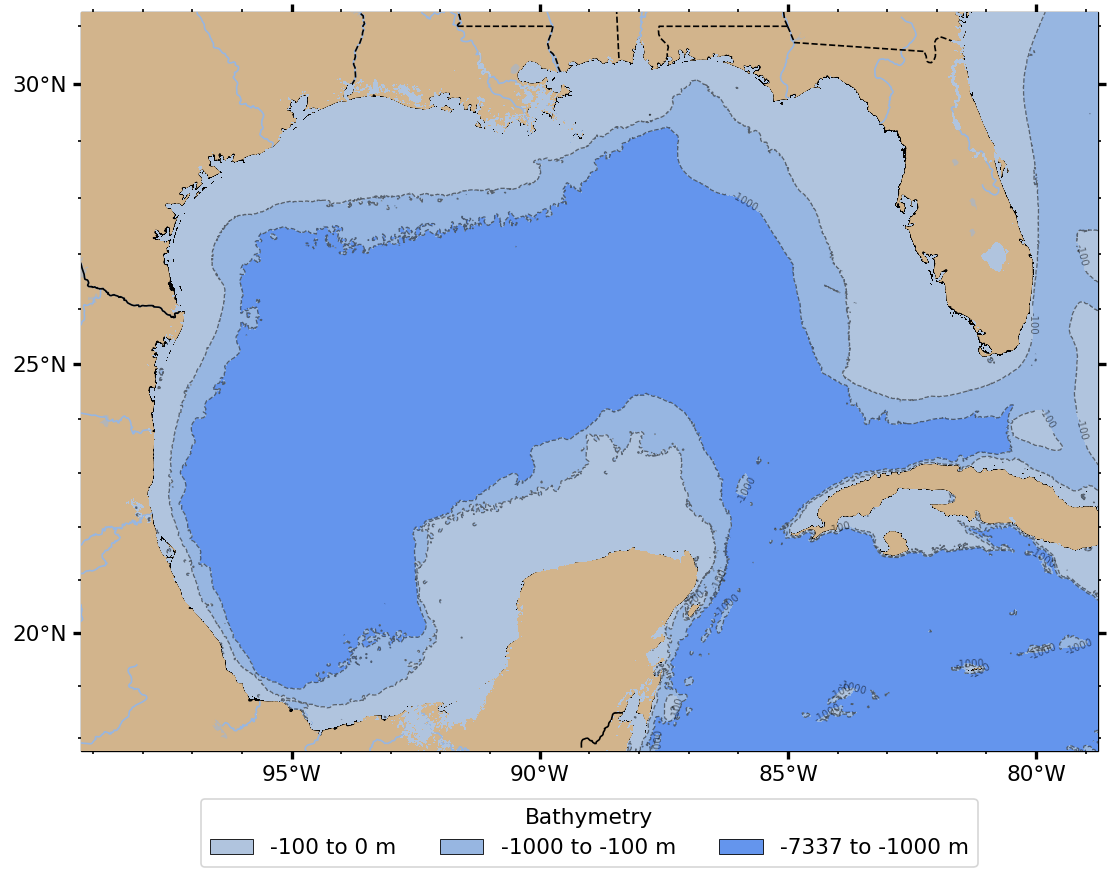
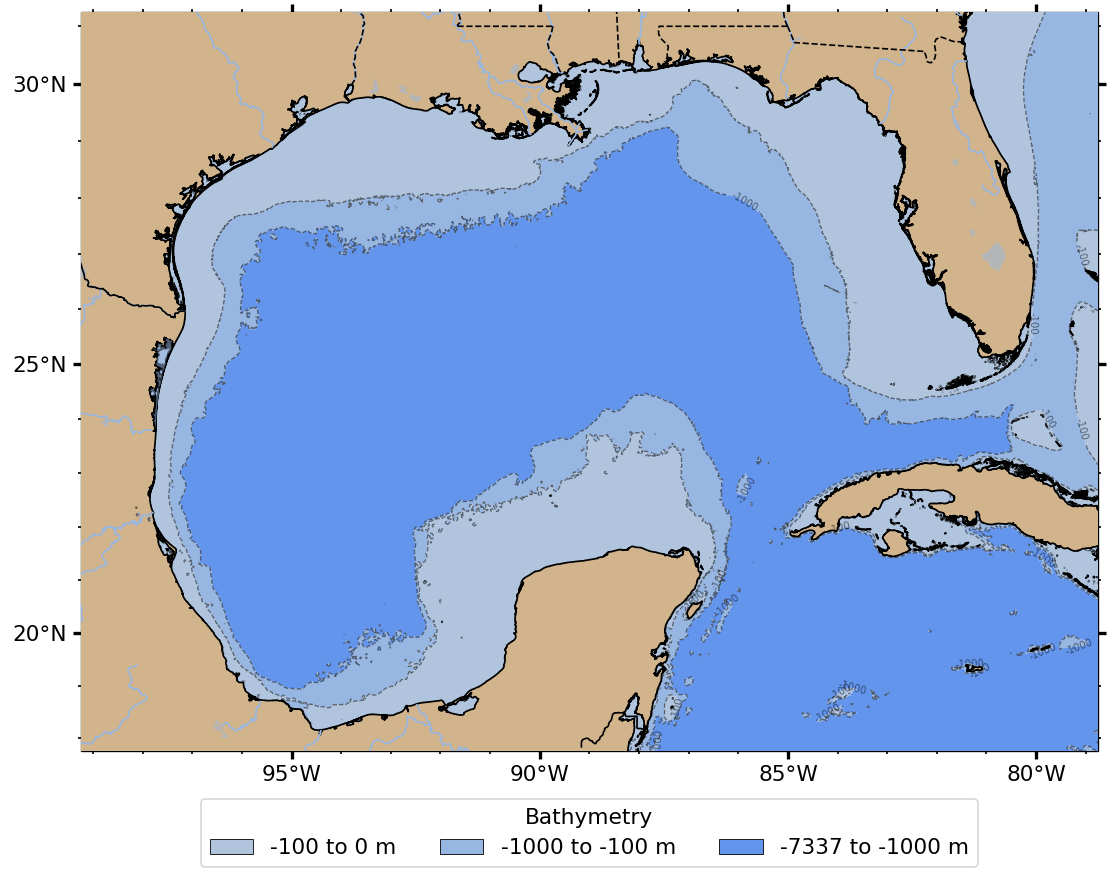
Fix banded bathymetry fill painting over land at coastline mismatches
The banded fill (contourf) was drawn at zorder 99, above land's zorder 10,
so wherever the GEBCO bathymetry grid disagreed slightly with the
coastline vector data, stray fill patches showed up right on top of
"land". Split the fill and isobath lines onto independent z-orders: the
fill now sits below land (so land redraws over any such mismatch), while
the lines stay boosted above it, same as the plain "contour" method.

diff --git a/tests/test_cool_maps.py b/tests/test_cool_maps.py
@@ -241,6 +241,25 @@ def test_map_create_bathymetry_banded_legend_scale_override():
     assert labels and all("fth" in label for label in labels)
 
 
+def test_banded_fill_zorder_stays_below_land_lines_above():
+    # Regression test: the banded fill (contourf) must sit below land (add_features draws
+    # land at zorder+10, default zorder=0), so a mismatch between the GEBCO bathymetry grid
+    # and cartopy's separately-sourced coastline vector doesn't leave stray fill visible
+    # over land. The isobath lines (contour) must stay above land so they render crisply,
+    # matching the plain "contour" method's behavior.
+    fig, ax = cplt.create(extent=extent, bathymetry=True, bathymetry_method="banded", ticks=False)
+    try:
+        # Cartopy wraps these as GeoContourSet, basemap/plain matplotlib as QuadContourSet;
+        # both live in ax.collections rather than ax.get_children() under cartopy.
+        contour_sets = [c for c in ax.collections if "ContourSet" in type(c).__name__]
+        assert len(contour_sets) == 2  # one contourf (fill), one contour (isobath lines)
+        zorders = sorted(c.get_zorder() for c in contour_sets)
+        assert zorders[0] < 10, "banded fill must be drawn below land"
+        assert zorders[1] > 10, "banded isobath lines must be drawn above land"
+    finally:
+        plt.close(fig)
+
+
 @pytest.mark.skipif("basemap" not in cplt.available_engines(), reason="Basemap engine not available")
 def test_map_create_bathymetry_banded_basemap():
     # Regression test: this method combines add_bathymetry's contour + contourf/quiver-style

diff --git a/cool_maps/plot.py b/cool_maps/plot.py
@@ -1185,6 +1185,12 @@ def add_bathymetry(
                 f"for bathymetry_method='banded'; got {len(colors)}."
             )
 
+        # The fill is drawn at the caller's zorder (create() keeps this low, below land),
+        # so that wherever the GEBCO bathymetry grid disagrees slightly with cartopy's
+        # separately-sourced coastline vector, land redraws over any stray fill rather
+        # than the fill bleeding onto what's visually mapped as land. The isobath lines are
+        # boosted well above that, independent of the fill's zorder, so they stay crisp and
+        # visible over land/borders the same way the plain "contour" method's lines do.
         h = backend.contourf(ax, lons, lats, elevation, levels=edges, colors=list(colors), zorder=zorder, **tkwargs)
 
         lines = backend.contour(
@@ -1196,7 +1202,7 @@ def add_bathymetry(
             linewidths=0.75,
             alpha=0.5,
             colors="k",
-            zorder=zorder + 0.1,
+            zorder=zorder + 90,
             transform_first=transform_first,
             **tkwargs,
         )
@@ -1661,7 +1667,13 @@ def create(
         )
 
     if bathymetry:
-        if "contour" in bathymetry_method or bathymetry_method == "banded":
+        if bathymetry_method == "banded":
+            # Keep the fill below land (add_features draws land at zorder+10) so a
+            # mismatch between the GEBCO bathymetry grid and cartopy's coastline vector
+            # doesn't leave stray fill visible over land; add_bathymetry boosts the
+            # isobath lines back above land/features independently of this base.
+            bathy_zorder_add = 5
+        elif "contour" in bathymetry_method:
             bathy_zorder_add = 99
         elif "topofull" in bathymetry_method:
             bathy_zorder_add = 20